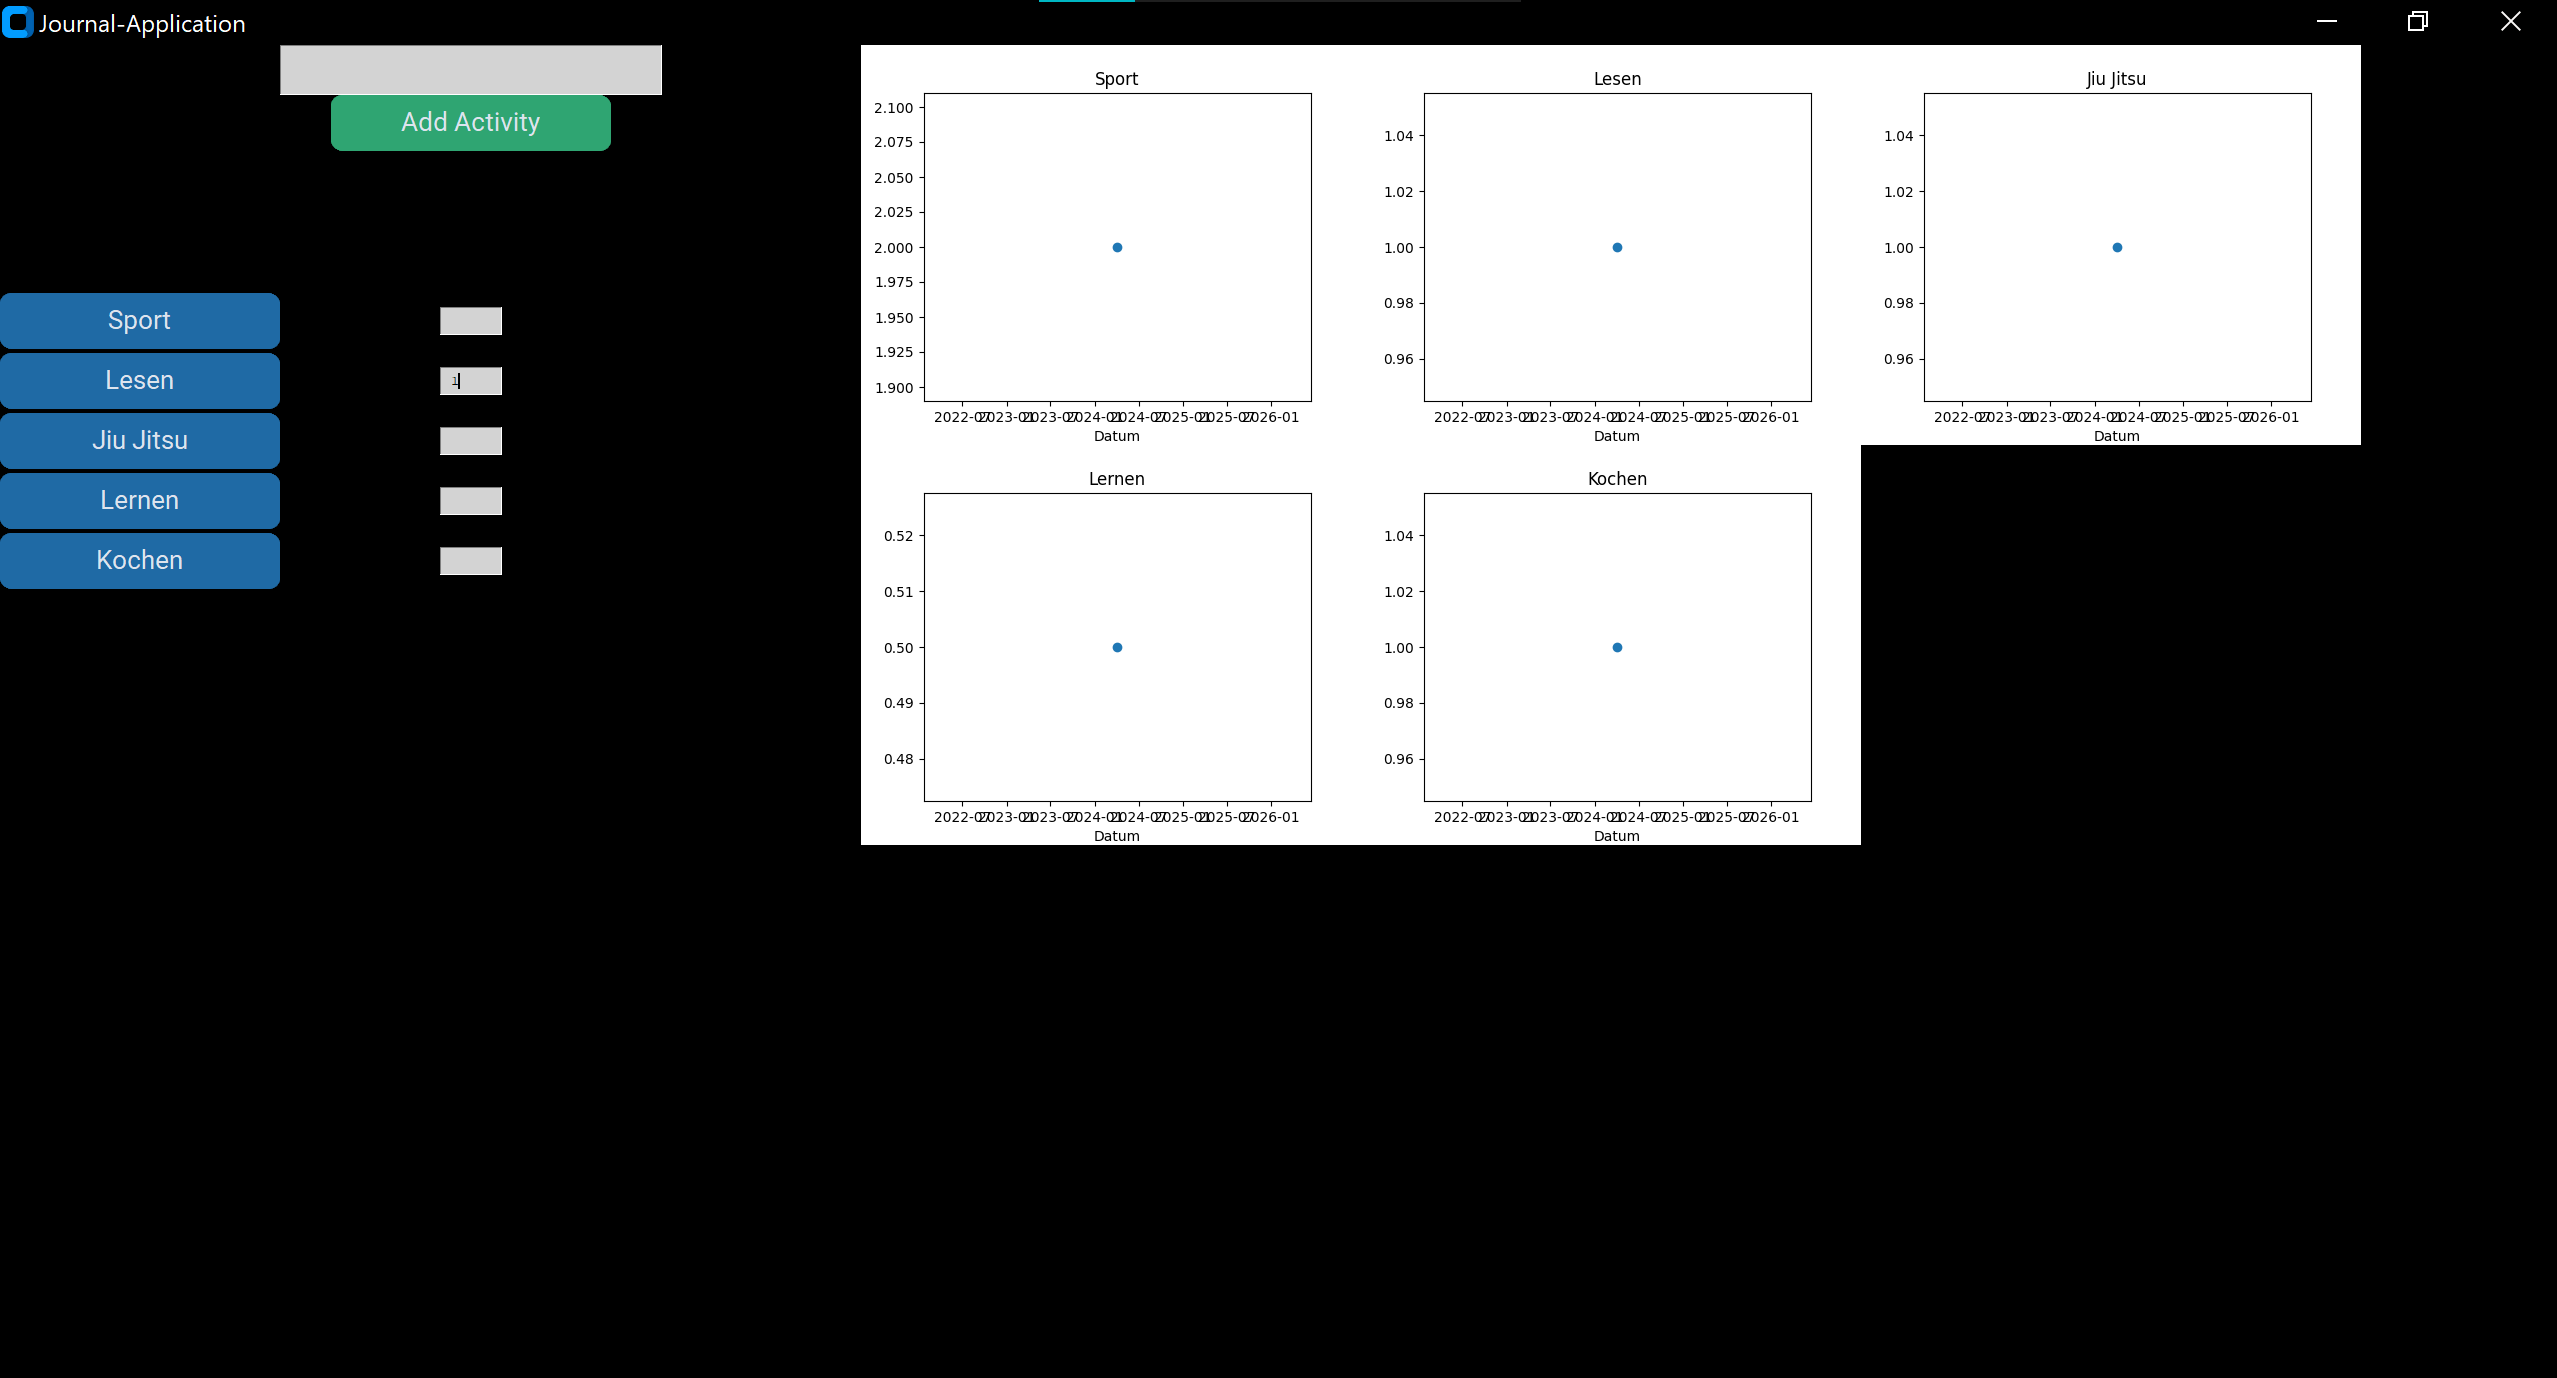
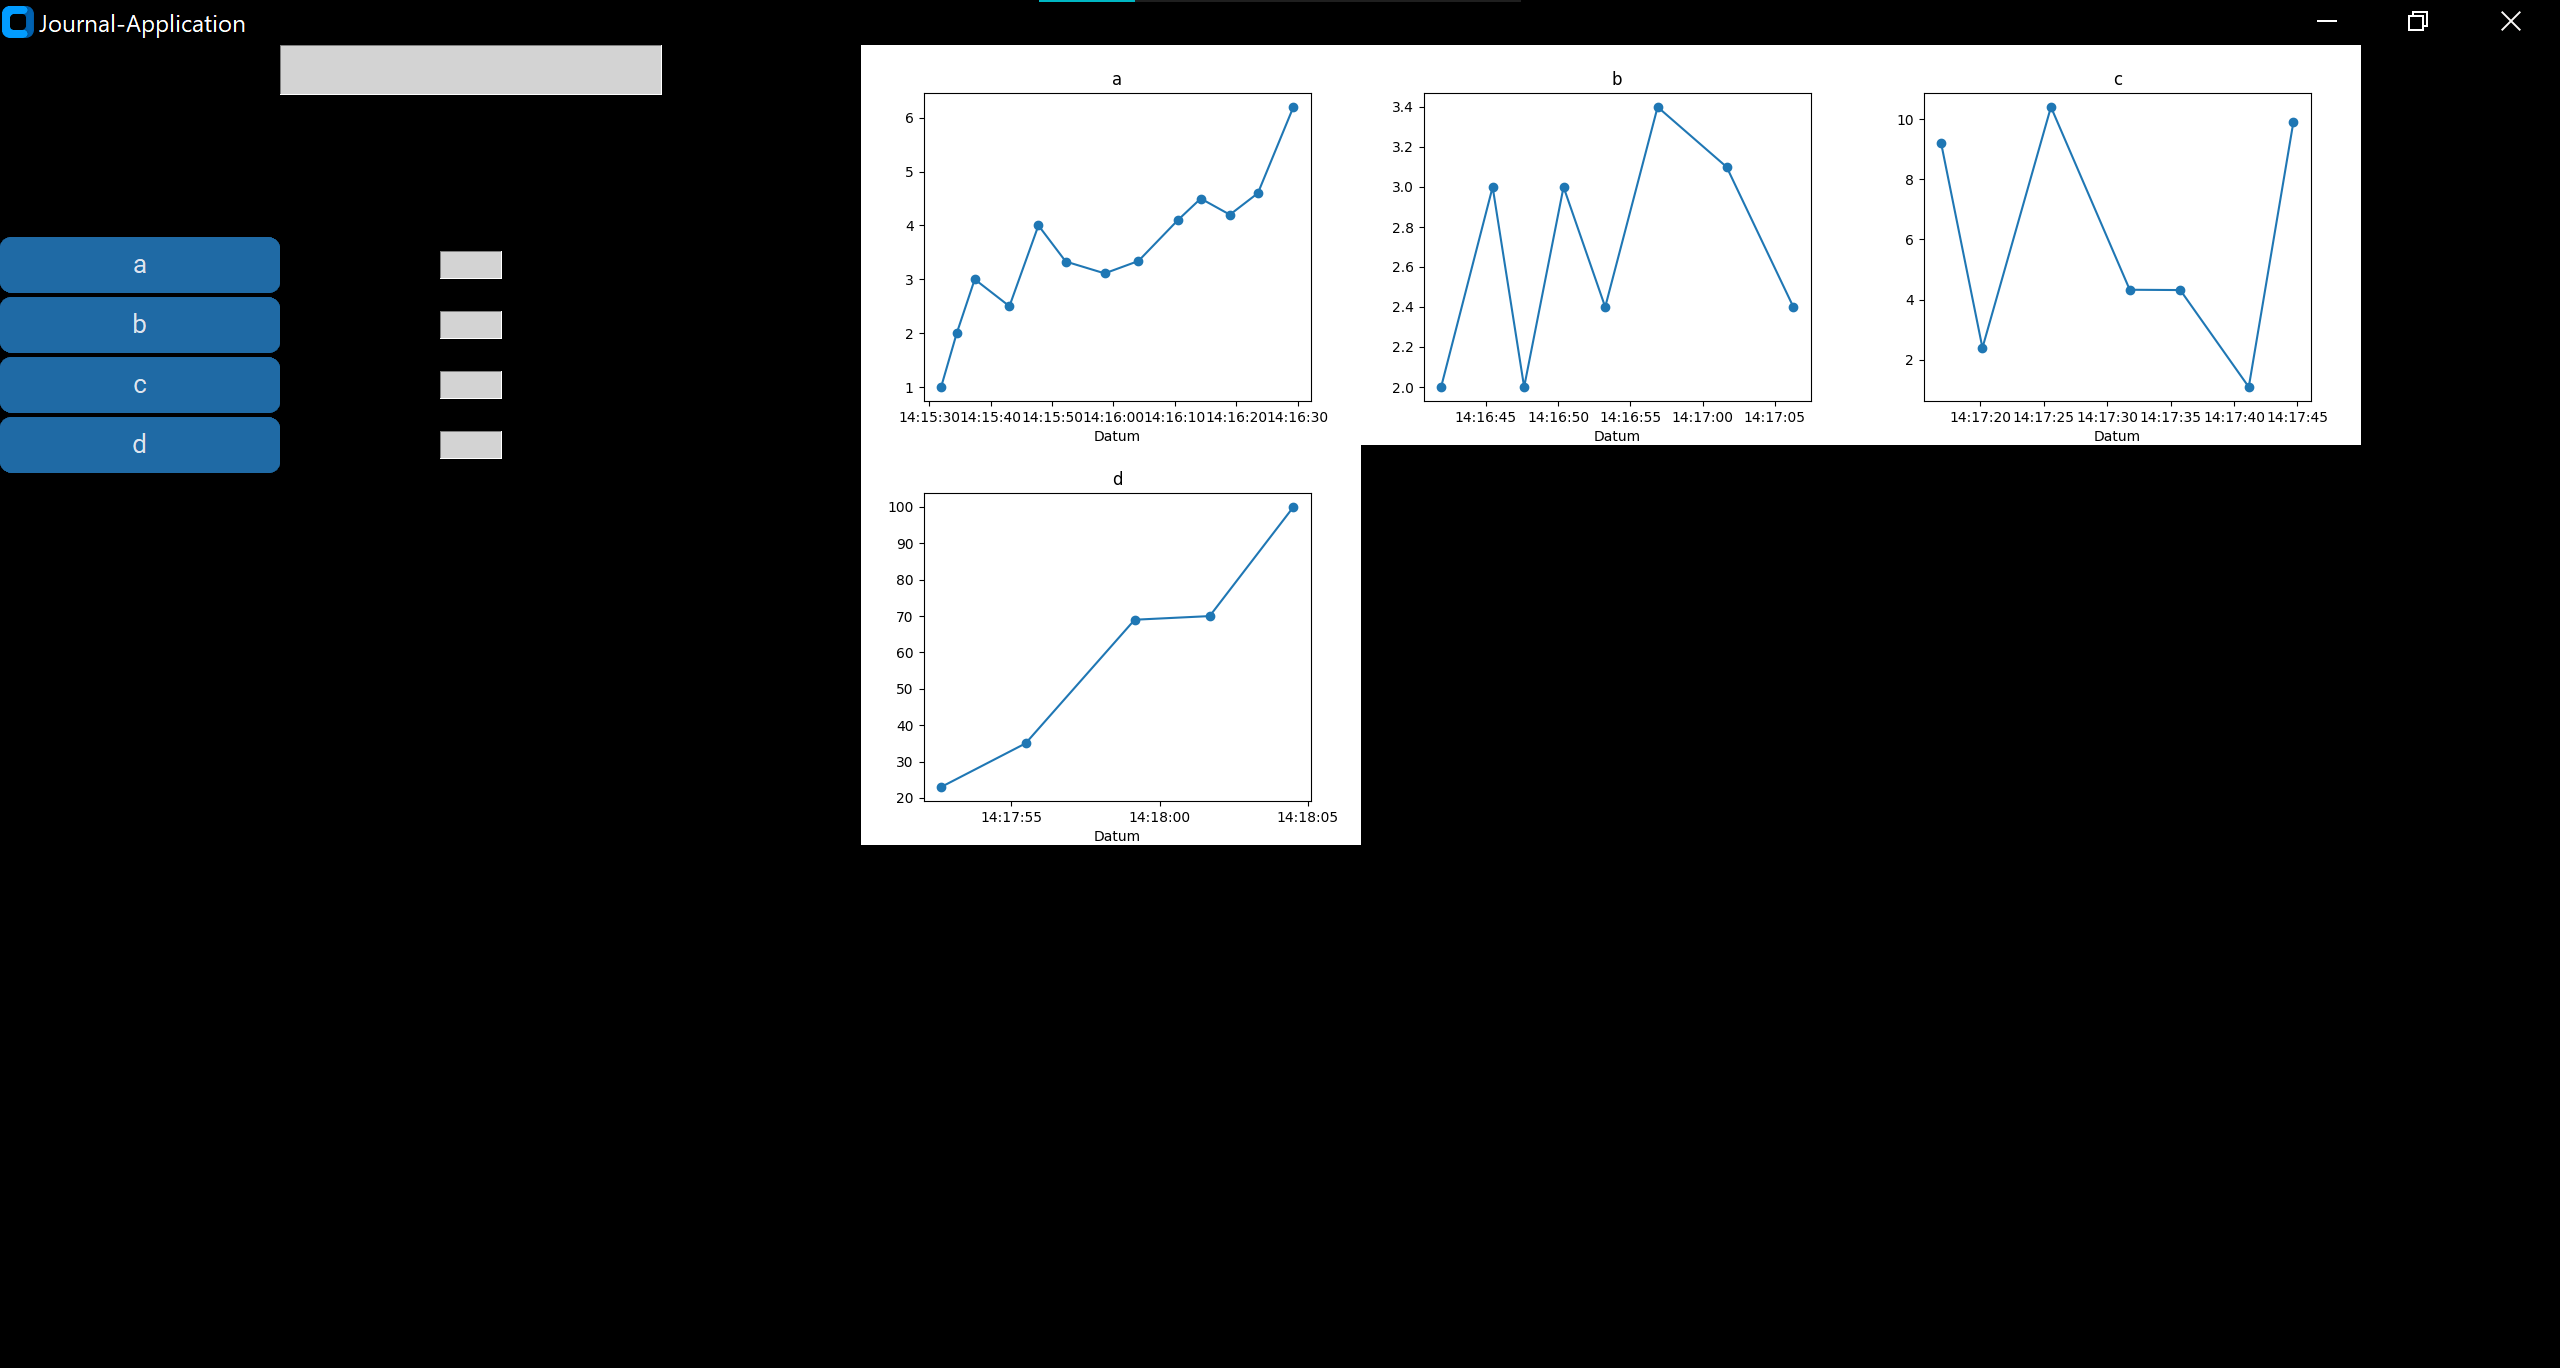
update

diff --git a/function_library.py b/function_library.py
@@ -27,35 +27,42 @@ def on_enter(left_frame,right_frame,event, inputtxt, get_txt=True, activity=None
 #Solution: Start from the smallest rows and columns
 
     if inp != "" and get_txt==True:
+        print("THIS CASE")
         if main.column==2:
             print(main.row,main.column)
-            activity = Activity(right_frame,inp, main.row, main.column)
+            activity = Activity(right_frame,inp, main.row, main.column) #Ich glaube hier liegt das problem
+            print('CREATED ACTIVITY')
             activity.time = datetime.datetime.now()
             print(activity.time)
             main.activities.append(activity)
-            #activity.plot_graph()
+            activity.plot_graph()
             main.column=0
             main.row+=1
         else:
             print(main.row,main.column)
-            activity = Activity(right_frame,inp, main.row,main.column)
+            activity = Activity(right_frame,inp, main.row,main.column) #Ich glaube hier liegt das problem
             activity.time = datetime.datetime.now()
             main.activities.append(activity)
-            #activity.plot_graph()
+            print('CREATED ACTIVITY')
+            activity.plot_graph()
             main.column+=1
         ctk.set_default_color_theme("blue")
         activity_button = ctk.CTkButton(master=left_frame, text=inp)
-        rows=len(main.activities)+10
+        print('HelloHELlo')
+        rows=activity.indx+11
+        print(rows-11, len(main.activities))
         activity_button.grid(row=rows, column=1,sticky="nsew", pady=1)
         activity_button.bind("<Button-1>",lambda event: activity_button_event(left_frame,right_frame, event, inputtxt, rows))
+        activity.plot_graph()
         save_state()
         
     elif get_txt==False:
         print('CALLED')
         ctk.set_default_color_theme("blue")
         activity_button = ctk.CTkButton(master=left_frame, text=inp)
-        rows=activity.indx+10
+        rows=activity.indx+11 #hier ist das problem
         activity_button.grid(row=rows, column=1,sticky="nsew", pady=1)
+        #rows=11
         activity_button.bind("<Button-1>",lambda event: activity_button_event(left_frame,right_frame, event, inputtxt, rows))
         activity.plot_graph()
         save_state()
@@ -86,9 +93,9 @@ def load_state(root1,root2):#call root as right_frame
             print('NUM ENTRYS: ', number_of_entrys)
 
             rw = int(line[1].strip())
-            print(rw)
+            print("ROW->",rw)
             cm = int(line[2].strip())
-            print(cm)
+            print("COLUMN->",cm)
 
             x_ev = []
             y_ev = []
@@ -101,29 +108,41 @@ def load_state(root1,root2):#call root as right_frame
                 print("WORKED")
                 date_obj=datetime.datetime.strptime(date_str, '%Y, %m, %d, %H, %M, %S, %f')
                 x_ev.append(date_obj)
-                y_str = line[7*number_of_entrys+i].strip()
+                y_str = line[-(i+1)].strip().strip(']').strip('[')
+                print('Y_STR: ',y_str)
                 y_ev.append(ast.literal_eval(y_str))
+
+            y_ev.reverse()
             
             activity = Activity(root2,act,rw,cm)
             #activity.time = ast.literal_eval((line[3]))
             activity.unit = line[4]
             activity.x = x_ev
             activity.y = y_ev
-            activities.append(activity)
-    for (i,element) in enumerate(activities):
+            main.activities.append(activity)
+    for (i,element) in enumerate(main.activities):
         element.indx = i
         on_enter(root1, root2,"",element.name, get_txt=False, activity=element)
     set_row_col()
-    return activities
 
 def set_row_col():
-    if activities!=[]:
-        global row, column
-        print(activities[-1].row)
-        row=activities[-1].row
-        column=activities[-1].column
-    print(row,column,"<----")
-    
+    if main.activities!=[]:
+        if main.activities[-1].column==2:
+            print('CHECKER')
+        #print(main.activities[-1].row)
+            main.row=main.activities[-1].row+1
+            main.column=0
+            #main.row=main.activities[-1].row
+            #main.column=main.activities[-1].column
+        else:
+            print('CHECKER 2')
+            #main.row=main.activities[-1].row
+            #main.column=main.activities[-1].column
+            main.row=main.activities[-1].row
+            main.column+=1
+        print(main.row,main.column,"<----")
+
+        
 def save_state():
     with open('data.csv', 'w') as file:
         print("Datenlänge:",len(main.activities))
@@ -146,18 +165,27 @@ def printInput(root,inputtxt):
     #label.pack()
 
 def read_data(left_frame,right_frame,event, user_data, row):
-    list_position_of_activity = row-10
+    list_position_of_activity = row-11
+    print("MARKER, ",list_position_of_activity, len(main.activities))
     inp = user_data.get("end-1c linestart", "end-1c lineend")
-    main.activities[list_position_of_activity-1].y.append(float(inp))
-    main.activities[list_position_of_activity-1].time=datetime.datetime.now()
-    main.activities[list_position_of_activity-1].append_time()
-    main.activities[list_position_of_activity-1].plot_graph()
+
+    main.activities[list_position_of_activity].y.append(float(inp))
+    main.activities[list_position_of_activity].time=datetime.datetime.now()
+    main.activities[list_position_of_activity].append_time()
+    main.activities[list_position_of_activity].plot_graph()
+    #except:
+    #    main.activities[list_position_of_activity-2].y.append(float(inp))
+    #    main.activities[list_position_of_activity-2].time=datetime.datetime.now()
+    #    main.activities[list_position_of_activity-2].append_time()
+    #    main.activities[list_position_of_activity-2].plot_graph()
+    
     save_state()
     #print(list_position_of_activity)
     #print(activities[list_position_of_activity-1].name)
     #print(activities[list_position_of_activity-1].time.year)
 
 def activity_button_event(left_frame,right_frame, event, inputtxt, row):
+    print("HELLO")
     user_data = tk.Text(left_frame, height = 1, width = 5, bg="lightgray", padx=10, pady=5)
     user_data.grid(row=row, column =2)
     user_data.bind("<Return>",lambda event: read_data(left_frame,right_frame,event, user_data, row))
@@ -217,7 +245,7 @@ def on_enter(left_frame,right_frame,event, inputtxt, get_txt=True, activity=None
     else:
         pass
 
-'''
+
 
 def load_state(root1,root2):#call root as right_frame
     with open('data.csv') as file:
@@ -266,6 +294,7 @@ def load_state(root1,root2):#call root as right_frame
         on_enter(root1, root2,"",element.name, get_txt=False, activity=element)
     set_row_col()
     return activities
+'''
     
 def get_button_width(button, inputtxt):
     add_activity_button_width = button.winfo_width()
@@ -275,18 +304,34 @@ def add_activity_button_command(left_frame,right_frame,event,inputtxt):
     #printInput(root,inputtxt)
     inp = inputtxt.get("end-1c linestart", "end-1c lineend")
     if inp != "":
-        activity = Activity(right_frame,inp, 0,0)
-        activity.time = datetime.datetime.now()
-        activity.plot_graph()
+        print("THIS CASE")
+        if main.column==2:
+            print(main.row,main.column)
+            activity = Activity(right_frame,inp, main.row, main.column) #Ich glaube hier liegt das problem
+            print('CREATED ACTIVITY')
+            activity.time = datetime.datetime.now()
+            print(activity.time)
+            main.activities.append(activity)
+            activity.plot_graph()
+            main.column=0
+            main.row+=1
+        else:
+            print(main.row,main.column)
+            activity = Activity(right_frame,inp, main.row,main.column) #Ich glaube hier liegt das problem
+            activity.time = datetime.datetime.now()
+            main.activities.append(activity)
+            print('CREATED ACTIVITY')
+            activity.plot_graph()
+            main.column+=1
         ctk.set_default_color_theme("blue")
         activity_button = ctk.CTkButton(master=left_frame, text=inp)
-        row=len(activities)+10
-        activity_button.grid(row=row, column=1,sticky="nsew", pady=1)
-        activity_button.bind("<Button-1>",lambda event: activity_button_event(left_frame,right_frame, event, inputtxt, row))
-        #activity_label = tk.Label(left_frame,text=inp, font = ("Verdana 10 bold", 25),fg = "blue",bg = "yellow")
-        #activity_label.grid(row=len(activities)+10, column=1,sticky="nsew", pady=1)
-    else:
-        pass
+        print('HelloHELlo')
+        rows=activity.indx+11
+        print(rows-11, len(main.activities))
+        activity_button.grid(row=rows, column=1,sticky="nsew", pady=1)
+        activity_button.bind("<Button-1>",lambda event: activity_button_event(left_frame,right_frame, event, inputtxt, rows))
+        activity.plot_graph()
+        save_state()
     inputtxt.delete(1.0, ctk.END)
 
 class Activity:
@@ -300,6 +345,7 @@ class Activity:
         self.unit = " "
         self.x = []
         self.y= []
+        self.indx = len(main.activities)
         #self.goal (daily, weekly,monthly)
         
     def plot_graph(self):
@@ -311,6 +357,8 @@ class Activity:
         
         x=self.x
         y=self.y
+
+        print(y)
         
         fig = Figure(figsize=(5, 4), dpi=100)
         plot = fig.add_subplot(1, 1, 1)
@@ -320,8 +368,7 @@ class Activity:
         plot.set_ylabel(self.unit)
 
         plt.gca().xaxis.set_major_formatter(plt.matplotlib.dates.DateFormatter('%d-%m-%Y'))
-
-        
+     
         canvas = FigureCanvasTkAgg(fig, master=self.root)
         canvas.draw()
         canvas.get_tk_widget().grid(row=self.row, column=self.column)

diff --git a/main.py b/main.py
@@ -32,15 +32,29 @@ def main():
 
     #acts=fl.activities
     #fl.set_row_col()
+
+    #fl.load_state(left_frame,right_frame)
+
+    
+    try:
+        fl.load_state(left_frame,right_frame)
+    except:
+        print("No saved data yet")
+    
+    #print("ROW", row, "COLUMN", column)
     
     inputtxt = tk.Text(left_frame, height = 1, width = 20, font=font,bg="lightgray", padx=10, pady=5)
     inputtxt.grid(row=1, column=2)
     inputtxt.bind("<Return>",lambda event: fl.on_enter(left_frame,right_frame,event, inputtxt))
 
+
+    #hier ist ein mess up
+    '''
     add_activity_button = ctk.CTkButton(master=left_frame, text="Add Activity")
     add_activity_button.grid(row=2, column=2)
     add_activity_button.bind("<Button-1>",lambda event: fl.add_activity_button_command(left_frame,right_frame, event, inputtxt))
-
+    '''
+    
     for row in range(3,10):
         tk.Frame(left_frame,width=183, height=20, bg="black").grid(row=row, column=1, sticky="nsew")
 
